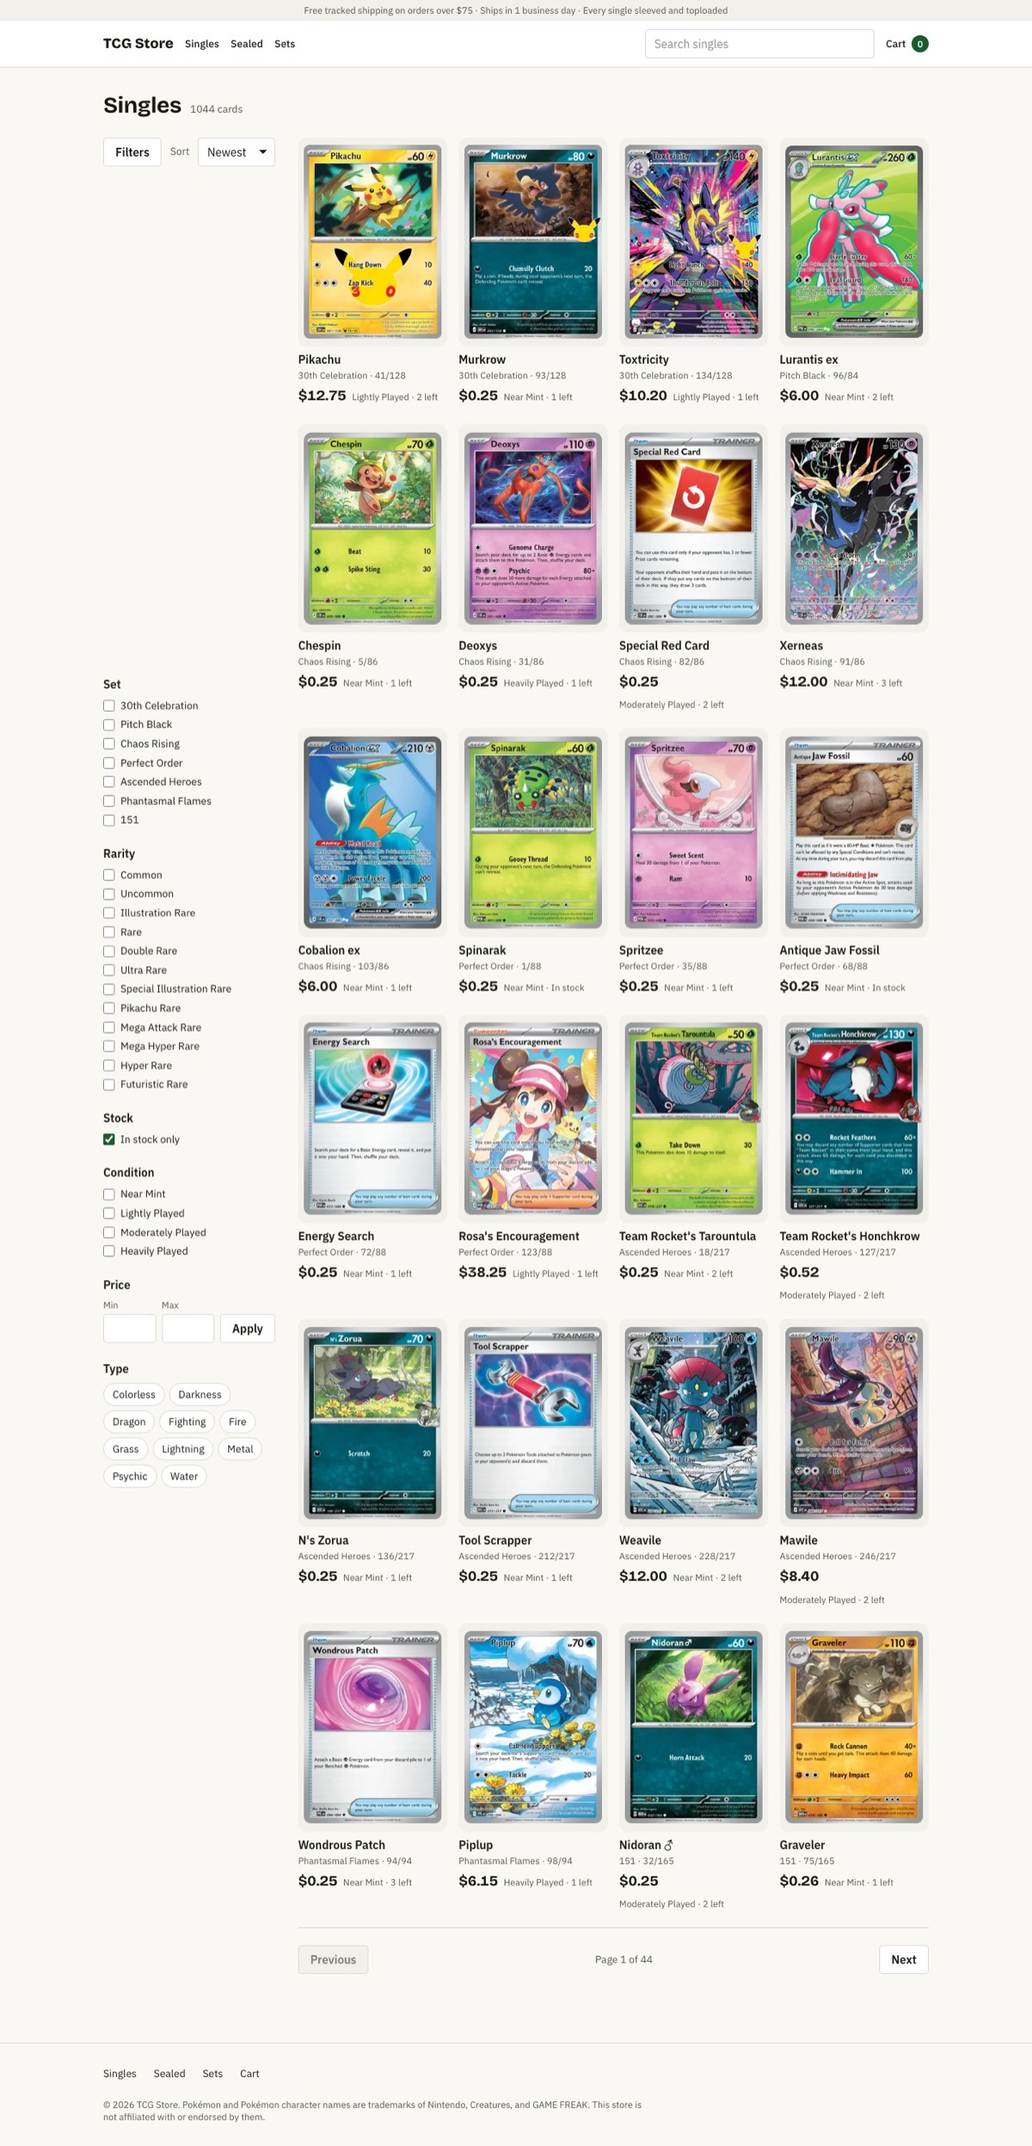
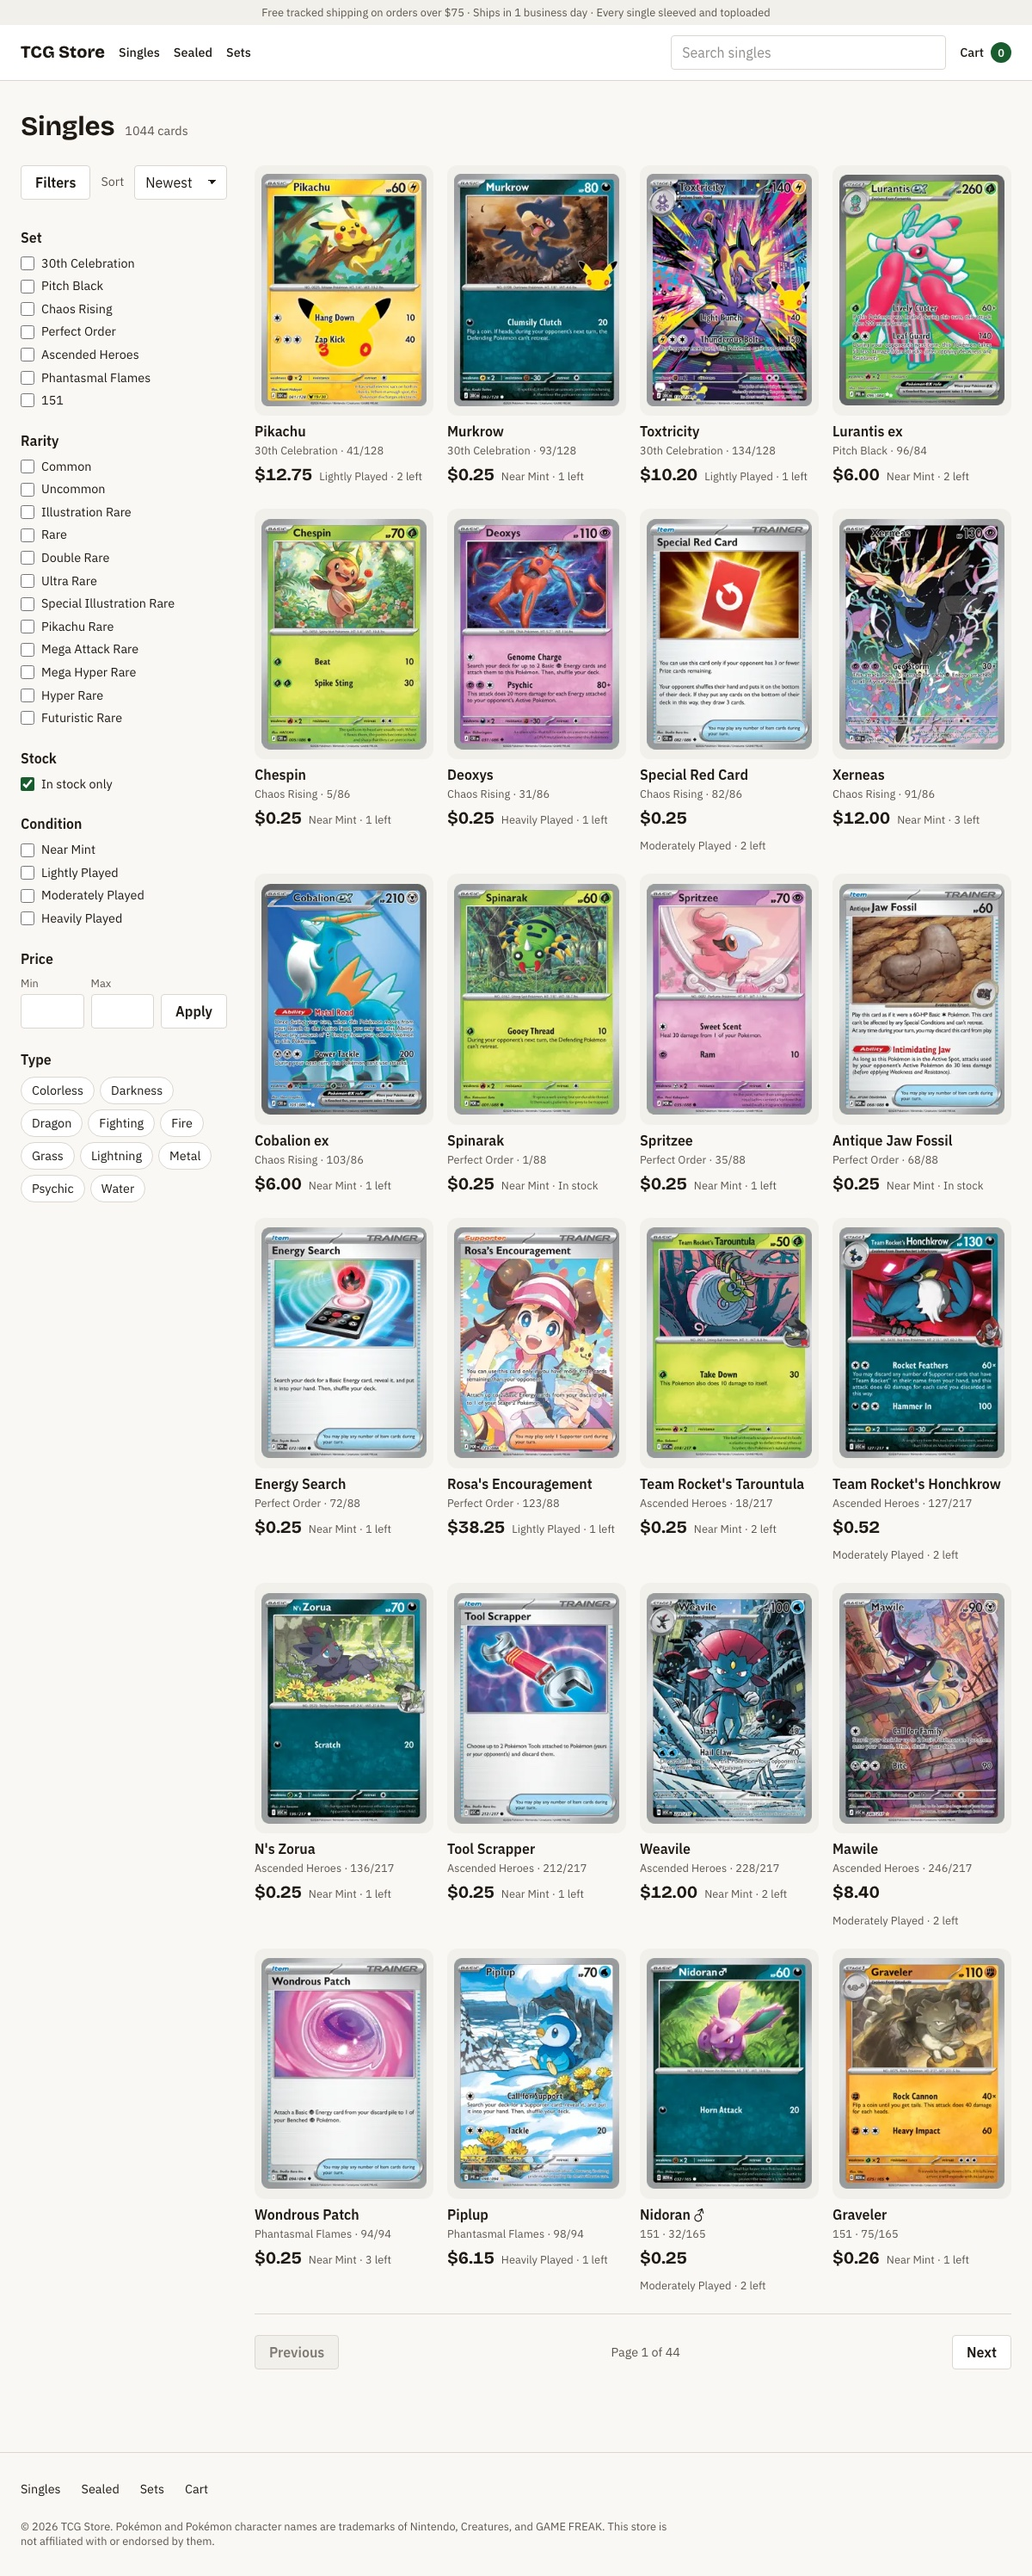
fix: shop filter panel starts under the Sort row on desktop
The shop grid had two auto rows and a results column spanning both, so the
grid split the results height between the rows and pushed the filter aside
most of a screen down. Explicit auto/1fr rows keep the aside directly under
the Sort row. Desktop shop screenshot recaptured.

diff --git a/app/shop/page.tsx b/app/shop/page.tsx
@@ -25,7 +25,7 @@ const Results: React.FC<{ searchParams: PageProps<"/shop">["searchParams"] }> = 
           {result.total} {result.total === 1 ? "card" : "cards"}
         </p>
       </div>
-      <div className="grid gap-8 md:grid-cols-[240px_1fr] items-start">
+      <div className="grid gap-8 md:grid-cols-[240px_1fr] md:grid-rows-[auto_1fr] items-start">
         <ShopControls query={query} sets={sets} rarities={RARITIES} types={TYPES} total={result.total} />
         <div className="flex flex-col gap-6 min-w-0 md:col-start-2 md:row-start-1 md:row-span-2">
           <ActiveChips query={query} />
